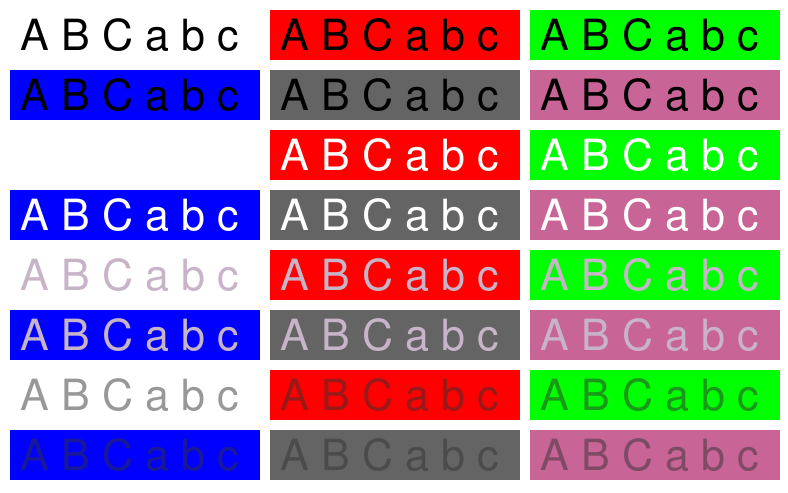
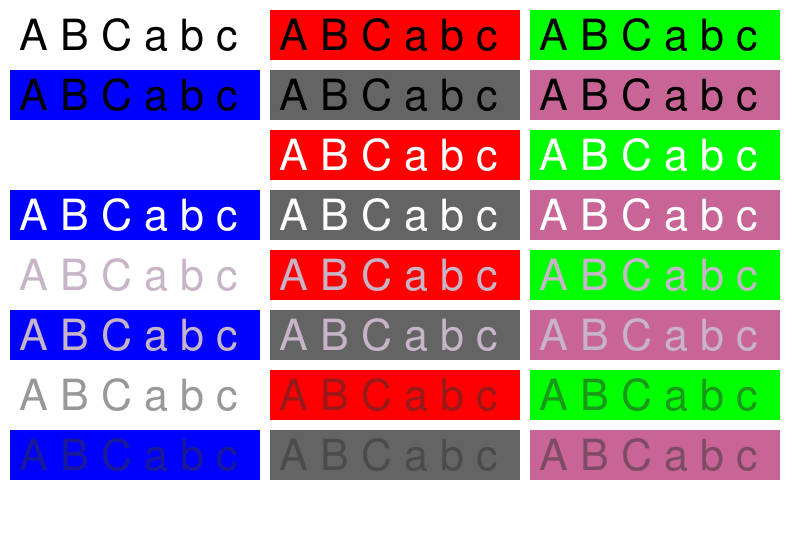
Refined SubpixelConstantTextColor, updated text-color reftest image

diff --git a/webrender/src/renderer.rs b/webrender/src/renderer.rs
@@ -10,7 +10,7 @@
 //! [renderer]: struct.Renderer.html
 
 use api::{channel, BlobImageRenderer, FontRenderMode};
-use api::{ColorF, ColorU, Epoch, PipelineId, RenderApiSender, RenderNotifier};
+use api::{ColorF, Epoch, PipelineId, RenderApiSender, RenderNotifier};
 use api::{DeviceIntPoint, DeviceIntRect, DeviceIntSize, DeviceUintRect, DeviceUintSize};
 use api::{ExternalImageId, ExternalImageType, ImageFormat};
 use api::{YUV_COLOR_SPACES, YUV_FORMATS};
@@ -641,7 +641,7 @@ pub enum BlendMode {
     None,
     PremultipliedAlpha,
     PremultipliedDestOut,
-    SubpixelConstantTextColor(ColorU),
+    SubpixelConstantTextColor(ColorF),
     SubpixelWithBgColor,
     SubpixelVariableTextColor,
 }
@@ -2903,7 +2903,7 @@ impl Renderer {
                                 );
                             }
                             BlendMode::SubpixelConstantTextColor(color) => {
-                                self.device.set_blend_mode_subpixel_constant_text_color(color.into());
+                                self.device.set_blend_mode_subpixel_constant_text_color(color);
 
                                 self.ps_text_run.bind(
                                     &mut self.device,

diff --git a/webrender/src/prim_store.rs b/webrender/src/prim_store.rs
@@ -625,10 +625,12 @@ impl TextRunPrimitiveCpu {
     }
 
     fn write_gpu_blocks(&self, request: &mut GpuDataRequest) {
-        let mut bg_color = self.font.bg_color;
-        bg_color.a = 0xFF; // not actually affecting the shader
+        let bg_color = ColorF::from(self.font.bg_color);
         request.push(self.font.color);
-        request.push(ColorF::from(bg_color).premultiplied());
+        // this is the only case where we need to provide plain color to GPU
+        request.extend_from_slice(&[
+            GpuBlockData { data: [bg_color.r, bg_color.g, bg_color.b, bg_color.a] }
+        ]);
         request.push([
             self.offset.x,
             self.offset.y,

diff --git a/webrender/src/tiling.rs b/webrender/src/tiling.rs
@@ -62,7 +62,7 @@ impl AlphaBatchHelpers for PrimitiveStore {
                         if font.bg_color.a != 0 {
                             BlendMode::SubpixelWithBgColor
                         } else {
-                            let blend_color = font.color.unpremultiply().into();
+                            let blend_color = font.color.unpremultiply();
                             BlendMode::SubpixelConstantTextColor(blend_color)
                         }
                     }

diff --git a/webrender_api/src/color.rs b/webrender_api/src/color.rs
@@ -117,6 +117,9 @@ fn round_to_int(x: f32) -> u8 {
     val as u8
 }
 
+// TODO: We shouldn't really convert back to `ColorU` ever,
+// since it's lossy. One of the blockers is that all of our debug colors
+// are specified in `ColorF`. Changing it to `ColorU` would be nice.
 impl From<ColorF> for ColorU {
     fn from(color: ColorF) -> ColorU {
         ColorU {
